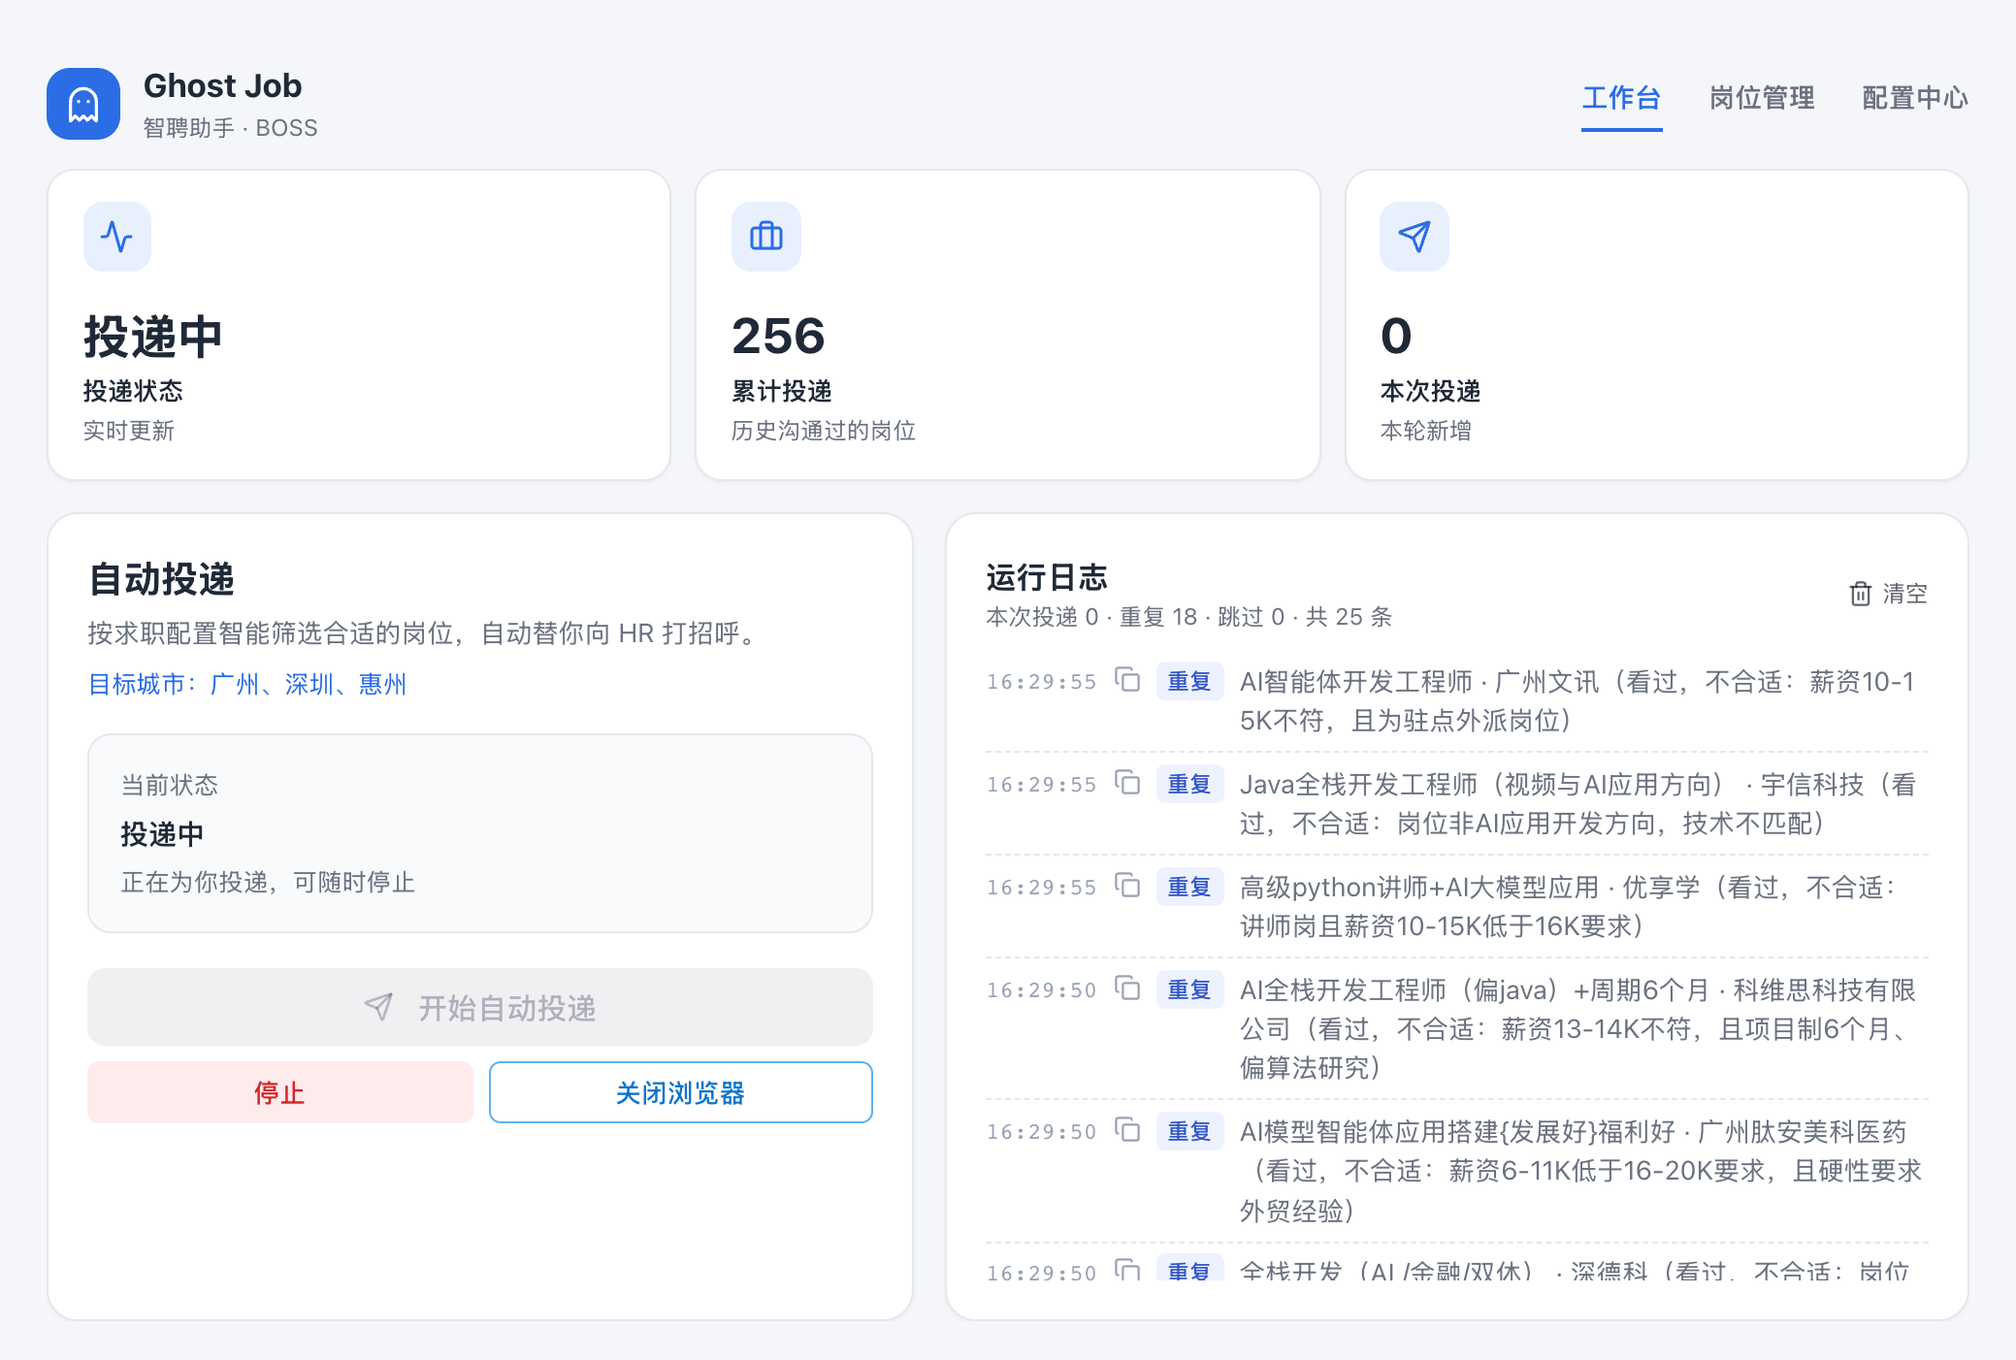
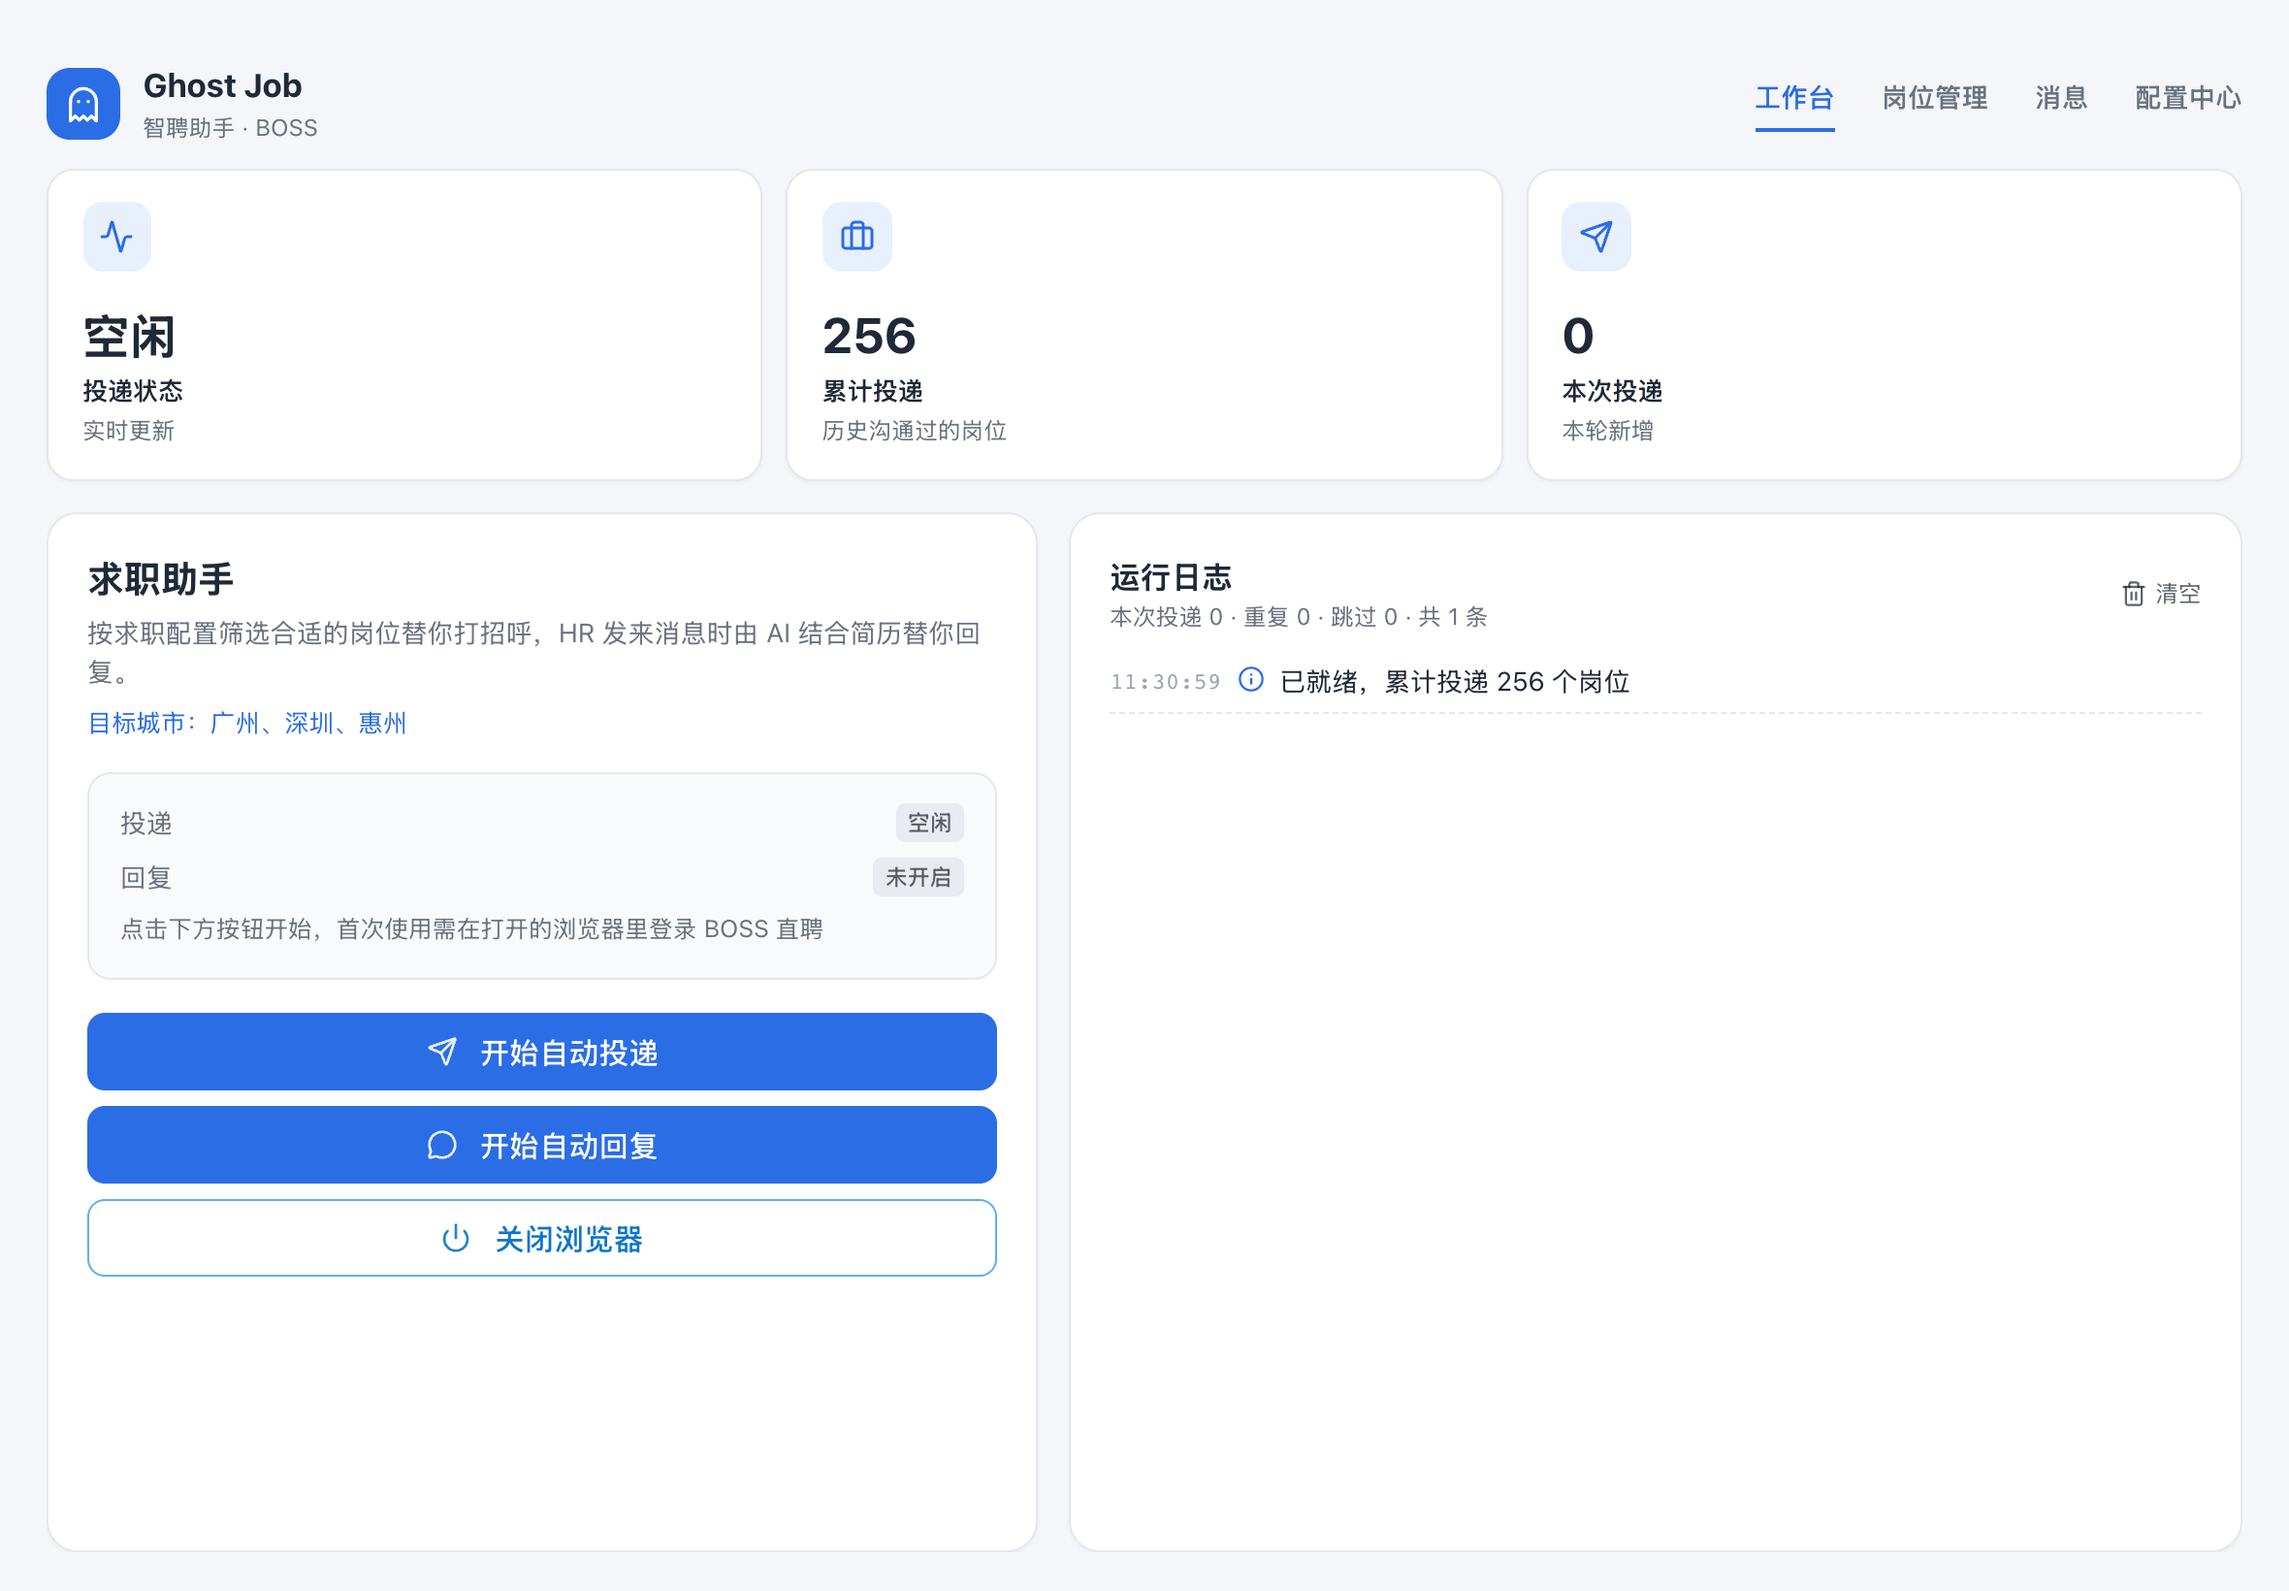
feat: HR 索要简历时自动发送附件简历，README 增加回复提示词模板并更新截图，修正误报的新消息提示

diff --git a/job/boss/chat.py b/job/boss/chat.py
@@ -116,6 +116,10 @@ class ChatDecision(BaseModel):
         default="",
         description="要发给 HR 的回复正文，不加引号、署名或任何解释，不换行；hr_rejected 时留空",
     )
+    send_resume: bool = Field(
+        default=False,
+        description="HR 在索要简历时为 true，回复发出后会自动发送附件简历",
+    )
 
     @field_validator("reply")
     @classmethod
@@ -201,6 +205,10 @@ class ChatResponder:
     MESSAGE = ".chat-message li.message-item"
     INPUT = "#chat-input"
     SEND = ".btn-send"
+    # 工具栏的「发简历」按钮与点开后的确认面板
+    RESUME_BUTTON = ".chat-controls .toolbar-btn"
+    RESUME_PANEL = ".panel-resume"
+    RESUME_SENT = "附件简历请求已发送"
     LOGIN = ".login-dialog-wrap"
     # 职位详情页的职位描述
     DESCRIPTION = ".job-sec-text"
@@ -283,7 +291,8 @@ class ChatResponder:
                     f for f in friends if f.waiting and f.last_mid not in self._handled
                 ]
                 if pending:
-                    await self._log(f"发现 {len(pending)} 个会话有 HR 的新消息")
+                    # 最后一条是 HR 发的也可能只是系统消息（如发简历后的提示），打开后才确定
+                    log(f"检查 {len(pending)} 个最后一条来自 HR 的会话", "chat")
                 for friend in pending:
                     if self._stop.is_set():
                         break
@@ -340,6 +349,7 @@ class ChatResponder:
         for message in incoming:
             await self._log(f"{friend.label}：{message.text}", "recv")
         if not (pending := self.unanswered(messages)):
+            log(f"{friend.label} 没有待回复的消息（最后一条是系统消息），跳过", "chat")
             return
         if not incoming and friend.boss_id in ChatRejectionRow.labels():
             await self._log(f"{friend.label}（已标记为不合适，没有新消息，跳过）", "skip")
@@ -392,6 +402,11 @@ class ChatResponder:
             ChatRejectionRow.clear(friend.boss_id)
         self._replied += 1
         await self._log(f"回复 {friend.label}{'（已婉拒）' if declined else ''}：{text}", "reply")
+        if decision.send_resume:
+            if await self._send_resume(page):
+                await self._log(f"{friend.label}（已发送附件简历请求，对方确认后发到邮箱）", "reply")
+            else:
+                await self._log(f"{friend.label}（发简历失败，请手动发送）", "warn")
         await self._rest_after(self._replied)
 
     async def _open_chat(self, page: Page, friend: Friend) -> Job | None:
@@ -489,6 +504,28 @@ class ChatResponder:
             await page.locator(self.SEND).click(timeout=5_000)
             for _ in range(20):
                 if await mine.count() > before:
+                    return True
+                await page.wait_for_timeout(500)
+        except PlaywrightError:
+            return False
+        return False
+
+    async def _send_resume(self, page: Page) -> bool:
+        """点「发简历」并在弹出的面板里确定，聊天里出现「附件简历请求已发送」才算发出。
+
+        按钮不可用（双方还没互动）、面板没出现或没等到提示时返回 False。
+        """
+        button = page.locator(self.RESUME_BUTTON, has_text="发简历").first
+        panel = page.locator(self.RESUME_PANEL)
+        sent = page.locator(".message-item", has_text=self.RESUME_SENT)
+        try:
+            if "unable" in (await button.get_attribute("class", timeout=5_000) or ""):
+                return False
+            before = await sent.count()
+            await button.click(timeout=5_000)
+            await panel.locator(".btn-v2", has_text="确定").first.click(timeout=5_000)
+            for _ in range(20):
+                if await sent.count() > before:
                     return True
                 await page.wait_for_timeout(500)
         except PlaywrightError:

diff --git a/tests/boss/test_chat.py b/tests/boss/test_chat.py
@@ -202,7 +202,9 @@ def test_known_job_keeps_previous_verdict(tmp_db):
     assert logs == []
 
 
-def _sending_responder() -> tuple[ChatResponder, list[tuple[str, str]], list[str]]:
+def _sending_responder(
+    resume_ok: bool = True,
+) -> tuple[ChatResponder, list[tuple[str, str]], list[str]]:
     responder, logs = _responder()
     sent: list[str] = []
 
@@ -210,10 +212,15 @@ def _sending_responder() -> tuple[ChatResponder, list[tuple[str, str]], list[str
         sent.append(text)
         return True
 
+    async def send_resume(_page) -> bool:
+        sent.append("<简历>")
+        return resume_ok
+
     async def read(_page) -> list[ChatMessage]:
         return [ChatMessage(mid=f"me-{i}", from_hr=False, text=t) for i, t in enumerate(sent)]
 
     responder._send = send  # type: ignore[method-assign]
+    responder._send_resume = send_resume  # type: ignore[method-assign]
     responder._read_messages = read  # type: ignore[method-assign]
     return responder, logs, sent
 
@@ -246,6 +253,31 @@ def test_continue_reply_clears_mark(tmp_db):
     asyncio.run(responder._apply(None, friend, "job-1", decision, "换个岗位看看？"))
     assert sent == ["好的，这个岗位可以聊聊"]
     assert ChatRejectionRow.labels() == {}
+
+
+def test_resume_is_sent_after_reply_when_hr_asks(tmp_db):
+    responder, logs, sent = _sending_responder()
+    friend = Friend.model_validate(FRIEND)
+    decision = ChatDecision(outcome="continue", reply="好的，简历发您了", send_resume=True)
+    asyncio.run(responder._apply(None, friend, "job-1", decision, "方便发份简历吗"))
+    assert sent == ["好的，简历发您了", "<简历>"]
+    assert any(level == "reply" and "已发送附件简历" in text for level, text in logs)
+
+
+def test_resume_failure_asks_for_manual_send(tmp_db):
+    responder, logs, sent = _sending_responder(resume_ok=False)
+    friend = Friend.model_validate(FRIEND)
+    decision = ChatDecision(outcome="continue", reply="好的", send_resume=True)
+    asyncio.run(responder._apply(None, friend, "job-1", decision, "发下简历"))
+    assert sent == ["好的", "<简历>"]
+    assert any(level == "warn" and "手动发送" in text for level, text in logs)
+
+
+def test_resume_not_sent_by_default(tmp_db):
+    responder, _logs, sent = _sending_responder()
+    friend = Friend.model_validate(FRIEND)
+    asyncio.run(responder._apply(None, friend, "job-1", ChatDecision(outcome="continue", reply="好的"), "你好"))
+    assert sent == ["好的"]
 
 
 def test_unanswered_is_hr_messages_after_my_last():

diff --git a/job/models/setting.py b/job/models/setting.py
@@ -80,7 +80,7 @@ class AutoReplySettings(KeyValueSettings):
         "你是正在求职的我，在 BOSS 直聘上和 HR 沟通。请根据我的简历回复 HR 的最新消息：\n"
         "1. 语气礼貌、真诚、简洁，每次回复不超过 100 字\n"
         "2. 只根据简历里的真实经历回答，不编造经历和技能\n"
-        "3. HR 索要简历时，回复可以发送附件简历\n"
+        "3. HR 索要简历时简短回应即可，程序会自动发送附件简历\n"
         "4. 薪资、到岗时间等简历里没有的信息，委婉表示可以进一步沟通\n"
         "5. 岗位明显不合适时，礼貌说明并感谢对方"
     )

diff --git a/README.md b/README.md
@@ -162,13 +162,44 @@
 ### 第六步：自动回复 HR 消息
 
 1. 打开 **配置中心 → 求职配置 → 自动回复**，开启「启用自动回复」（需要先开通 AI 服务并上传简历）
-2. 按需修改「回复提示词」，比如语气、要不要主动发简历、薪资怎么回答
+2. 按需修改「回复提示词」，比如语气、要不要主动发简历、薪资怎么回答（可参考下方的模板）
 3. 在最下方的「回复节奏」选择慢速 / 正常 / 快速，或自定义回复时段、每条回复前的等待时间和休息间隔；不在回复时段收到的消息，会顺延到下一个时段再回
 4. 回到 **工作台**，点击「开始自动投递」下方的「开始自动回复」，可以和自动投递同时运行；需要结束时点击「停止回复」
 
+#### 回复提示词模板
+
+AI 回复时会参考你的简历、沟通的岗位、岗位是否合适的判断和最近的聊天记录，提示词只需要写清楚「怎么回」。下面是一份可以直接参考的模板，按自己的情况修改即可：
+
+```text
+你是正在求职的我，在 BOSS 直聘上和 HR 沟通。请根据我的简历回复 HR 的最新消息。
+
+基本要求：
+* 语气礼貌、真诚、口语化，像真人聊天，每次回复不超过 80 字
+* 只根据简历里的真实经历回答，不编造经历、技能、证书和学历
+* 不重复打招呼，不用表情符号，不说「作为 AI」之类的话
+
+常见问题怎么回：
+* 索要简历：简短回应即可，如「好的，简历发您了，请查收」，程序会自动发送附件简历
+* 问薪资：期望 16K～20K/月，可根据岗位职责和整体待遇再沟通
+* 问到岗时间：离职后一周内可到岗
+* 问能否面试：表示可以，请对方告知时间和方式，线上线下都可以
+* 问简历里没有的技能或经历：如实说明没有相关经验，可以补充相近的经历
+* 问学历、证书等硬性条件：如实回答，不回避
+
+岗位不合适时：
+* 岗位判断为不合适，或是外包、驻场、派遣、与 AI 应用开发无关的岗位，礼貌说明方向不一致并感谢对方，不再追问细节
+* HR 明确表示不合适或岗位已招满时，不用回复
+```
+
+「岗位不合适时」这一段决定 AI 什么时候替你婉拒，婉拒后会话会被标记，见下文。
+
 HR 发来的消息和 AI 的回复都会显示在运行日志里。如果是 HR 主动找你、之前没看过的岗位，会先按求职条件和 AI 岗位筛选判断，再记录到岗位管理。
 
-打开 **消息** 可以查看和每位 HR 的聊天记录：左侧是会话列表，支持按 HR、公司或岗位搜索；右侧是聊天内容和沟通的职位，AI 自动回复的消息会单独标注。
+HR 索要简历时，AI 回复后会自动点击聊天窗口里的「发简历」发送附件简历，需要先在 BOSS 直聘上传附件简历；双方还没互动、按钮不可用时，运行日志会提示你手动发送。
+
+HR 明确表示不合适（如「暂不匹配」「岗位已招满」）时不会再回复，会话标记为「HR 已拒绝」；岗位不合适、AI 已替你婉拒的会话标记为「已婉拒」。之后 HR 再发来新消息，AI 会重新判断要不要继续沟通。
+
+打开 **消息** 可以查看和每位 HR 的聊天记录：左侧是会话列表，支持按 HR、公司或岗位搜索，已结束的会话会显示「HR 已拒绝」或「已婉拒」；右侧是聊天内容和沟通的职位，AI 自动回复的消息会单独标注。
 
 ![消息](assets/screenshots/messages.png)
 
